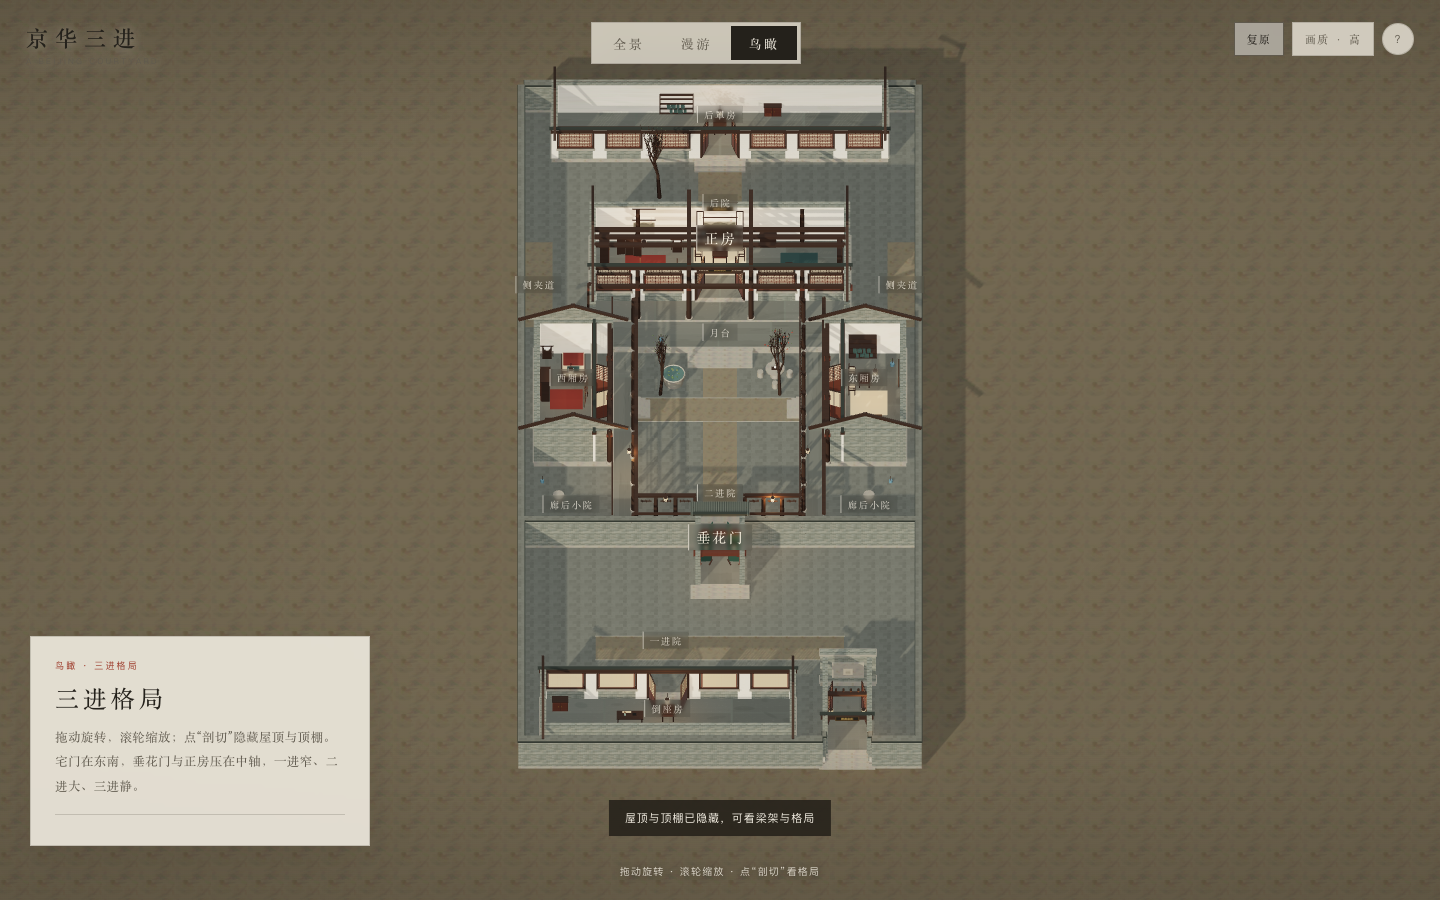
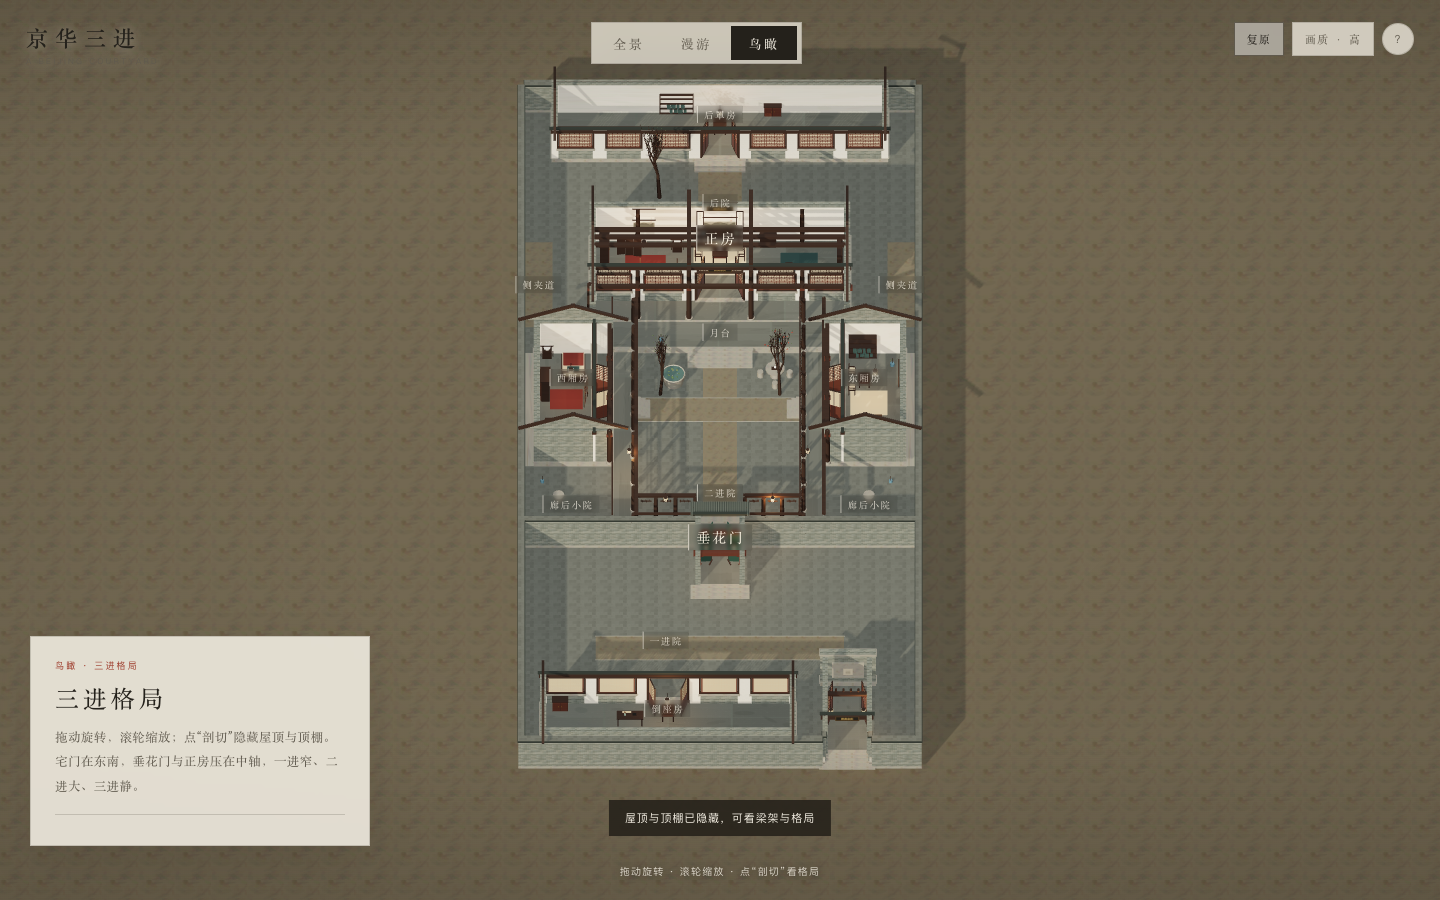
修正倒座后墙与厢房山墙散水缝隙

Changed region(s): [[0.375, 0.7156, 0.5625, 0.8089], [0.625, 0.4044, 0.6562, 0.5289], [0.3438, 0.4044, 0.375, 0.5289]]

diff --git a/src/world/garden.ts b/src/world/garden.ts
@@ -34,6 +34,16 @@ export function createPaving(ctx: WorldContext): void {
     box(p.x2 - p.x1, 0.018, p.z2 - p.z1, pathMat, (p.x1 + p.x2) / 2, 0.002, (p.z1 + p.z2) / 2, ctx.architecture, false, true);
   }
 
+  // Narrow drainage aprons between the wing gables and the party walls.
+  // These are 散水, not passages: stone strip + collider, no walking.
+  for (const gap of [
+    { x1: 0.4, x2: 1.0 },
+    { x1: 25.0, x2: 25.6 },
+  ]) {
+    plane(gap.x2 - gap.x1, 9.6, ctx.mats.stone, (gap.x1 + gap.x2) / 2, 0.018, 30.4, -Math.PI / 2, 0, 0, ctx.architecture);
+    ctx.addCollider(gap.x1, 25.6, gap.x2, 35.2);
+  }
+
   // 月台
   const t = TERRACE;
   box(t.x2 - t.x1, t.height, t.z2 - t.z1, ctx.mats.stone, (t.x1 + t.x2) / 2, 0, (t.z1 + t.z2) / 2, ctx.architecture, false, true);

diff --git a/src/data/site.ts b/src/data/site.ts
@@ -34,7 +34,7 @@ export const MAIN_HALL: HallSpec = {
 };
 
 export const SOUTH_HALL: HallSpec = {
-  id: 'southHall', name: '倒座房', x1: 1.4, x2: 17.9, z1: 0.8, z2: 5.8,
+  id: 'southHall', name: '倒座房', x1: 1.4, x2: 17.9, z1: 0.4, z2: 5.4,
   platform: 0.20, eave: 3.15, ridge: 4.50,
   bays: [3.3, 3.3, 3.3, 3.3, 3.3], facade: 'north', porch: 0, doorBay: 2,
   roofAxis: 'x', interior: 'southHall',

diff --git a/README.md b/README.md
@@ -37,7 +37,7 @@ pnpm preview
 ## 场景内容
 
 - **宅门**：东南巽位，广亮大门，门扉中柱，黑红净油饰，门簪、抱鼓石、门槛、门道灯笼。
-- **一进院**：倒座房五间、门房/账房、独立一字影壁、小高窗。
+- **一进院**：倒座房五间、门房/账房、独立一字影壁、小高窗。倒座后墙贴南院墙；厢房山墙外 0.6 m 为石铺散水，不可通行。
 - **垂花门**：一殿一卷，垂莲柱，四扇屏门，左右接抄手游廊；檐口出挑 0.95 m，三步踏跺均在檐下，游廊卷棚与门屋搭接。
 - **二进院**：正房五间、东西厢房各三间、月台、十字甬路、海棠、石榴、鱼缸、石桌。
 - **正房室内**：中堂（条案、八仙桌、太师椅、中堂画、对联、匾额、座钟、掸瓶），东次间书房，西次间卧房，彻上明造梁架。

diff --git a/docs/三进四合院-建筑考据与设计规范.md b/docs/三进四合院-建筑考据与设计规范.md
@@ -284,6 +284,9 @@
 
 ### 3.2 倒座房
 
+- 后墙与南院墙贴砌，之间不留可进入的窄缝；倒座房后墙直接作为临街界面。
+- 东西厢房山墙与院墙之间保留约 0.6 m 石铺散水，仅用于排水/屋檐滴水，不做通行；模型中以碰撞封闭。
+
 - 五间，通面阔 16.5 m，进深 5.0 m；台基 0.20 m，五檩无廊。
 - 后檐临街：封护檐，砖檐做三层/冰盘檐；只开小高窗，不开大窗。
 - 前檐朝院：支摘窗；明间可做门连窗或夹门窗，作为门房/账房入口。
